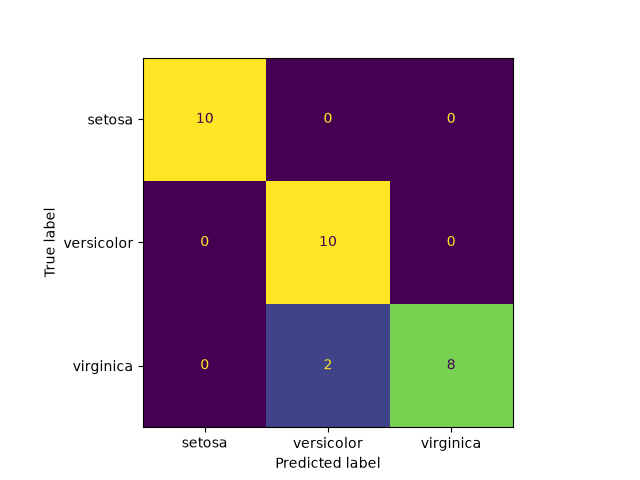
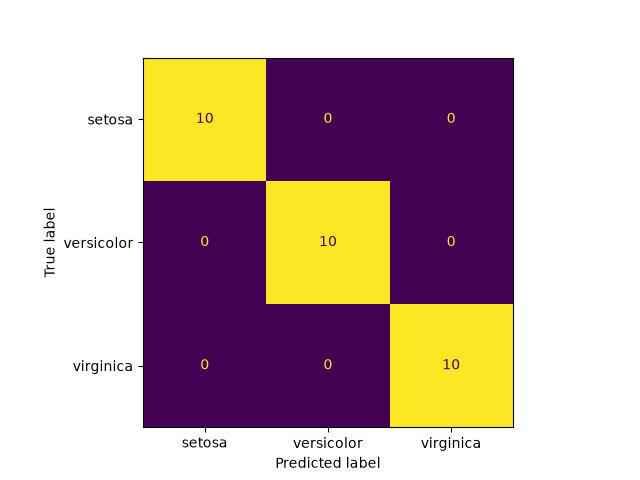
fix assignments_03

Changed region(s): [[0.4062, 0.625, 0.8125, 0.9062]]

diff --git a/assignments_03/project_03.py b/assignments_03/project_03.py
@@ -18,12 +18,9 @@ from sklearn.model_selection import train_test_split, cross_val_score
 from sklearn.metrics import (
     confusion_matrix,
     accuracy_score,
-    precision_score,
-    recall_score,
-    f1_score,
     classification_report
 )
-from sklearn.inspection import DecisionBoundaryDisplay
+
 
 warnings.filterwarnings("ignore", category=RuntimeWarning)
 
@@ -100,10 +97,10 @@ print(df.shape)
 print(df.head())
 # Check how many spam/ham values 
 print(df["spam_label"].value_counts())
-# The dataset is fairly balanced.
-# Ham emails: 2788 (about 61%)
-# Spam emails: 1813 (about 39%)
-# Accuracy will be usel metric.
+
+# The dataset has more ham emails than spam emails.
+# Accuracy is useful, but precision and recall are also important because
+# false positives can mark real emails as spam.
 
 # Boxplot for key features
 features = ["word_freq_free", "char_freq_!", "capital_run_length_total"]
@@ -120,17 +117,13 @@ for feature in features:
 # Observations from feature distributions:
 #
 # word_freq_free:
-# Spam emails usually contain more occurrences of the word "free" because
-# many spam messages use promotional language and offers.
+# Spam emails often contain the word "free".
 #
 # char_freq_!:
-# Spam emails tend to have higher exclamation mark frequency because
-# advertisements and spam messages often use urgent or attention-grabbing text.
+# Spam emails often use more exclamation marks.
 #
 # capital_run_length_total:
-# Spam emails often contain longer sequences of capital letters because
-# they may use uppercase words to emphasize deals, warnings, or promotions.
-
+# Spam emails often contain longer capital letter sequences.
 
 
 # Task 2: Prepare Your Data
@@ -191,8 +184,8 @@ pred = knn_scaled.predict(X_test_scaled)
 print("KNN Scaled Accuracy:", accuracy_score(y_test, pred))
 print(classification_report(y_test, pred))
 
-# Unscaled accuracy is about 0.89 and scaled accuracy is about 0.90, 
-# that means KNN preformed better with scaled data
+# Scaled KNN performed slightly better.
+# Scaling helps KNN because it uses distance between data points.
 
 # KNN PCA
 knn_pca = KNeighborsClassifier(n_neighbors=5)
@@ -218,6 +211,9 @@ tree_pred = tree_final.predict(X_test)
 print("Tree Accuracy:", accuracy_score(y_test, tree_pred))
 print(classification_report(y_test, tree_pred))
 
+# I chose max_depth=10 because it balances training and test accuracy.
+# Very deep trees can overfit, while small trees can miss patterns.
+
 # Random Forest
 rf = RandomForestClassifier(n_estimators=100, random_state=42)
 rf.fit(X_train, y_train)
@@ -234,6 +230,8 @@ tree_importance = pd.Series(
 print("Decision Tree Top Features")
 print(tree_importance.sort_values(ascending=False).head(10))
 
+# Random Forest is more reliable because it combines many trees
+# and reduces overfitting.
 
 rf_importance = pd.Series(
     rf.feature_importances_,
@@ -276,26 +274,16 @@ print(classification_report(y_test, log_pred_pca))
 
 # Model comparison:
 #
-# Random Forest performed the best based on accuracy because tree-based
-# models can learn complex patterns without requiring feature scaling.
+# Random Forest performed best because it can learn complex patterns.
 #
-# KNN comparison:
-# The scaled KNN model performed better than the unscaled version because
-# KNN uses distance calculations, and scaling prevents larger-range features
-# from dominating the distance.
+# KNN performed better after scaling because it uses distance calculations.
 #
-# The PCA version of KNN reduced the number of features while keeping most
-# important information. However, the improvement was small compared with
-# the scaled version.
+# PCA reduced the number of features but did not improve model performance.
 #
-# Logistic Regression comparison:
-# The scaled Logistic Regression model performed better than the PCA version.
-# This shows that removing features with PCA did not improve performance
-# for Logistic Regression on this dataset.
+# Logistic Regression worked better with scaled data than PCA data.
 #
-# For spam detection, accuracy alone is not enough. False positives are
-# important because legitimate emails could incorrectly be marked as spam.
-# Therefore, precision and recall should also be considered.
+# Precision and recall are important because false positives can mark
+# important emails as spam.
 
 # Confusion matrix for best model
 disp = ConfusionMatrixDisplay.from_predictions(y_test, rf_pred)
@@ -303,14 +291,23 @@ plt.title("Best Model Confusion Matrix")
 plt.savefig("assignments_03/outputs/best_model_confusion_matrix.png")
 plt.close()
 
-# The confusion matrix shows the number of false positives and false negatives.
-#
-# False positives are legitimate emails incorrectly classified as spam.
-# False negatives are spam emails incorrectly classified as ham.
-#
-# For spam filtering, false positives are usually the more concerning error
-# because an important email could be incorrectly moved to the spam folder.
-# False negatives are less harmful because the user can delete an unwanted email.
+# Check false positives and false negatives
+cm = confusion_matrix(y_test, rf_pred)
+
+false_positives = cm[0, 1]  # Real emails marked as spam
+false_negatives = cm[1, 0]  # Spam emails missed
+
+print("False Positives:", false_positives)
+print("False Negatives:", false_negatives)
+
+if false_positives > false_negatives:
+    print("More false positives than false negatives.")
+else:
+    print("More false negatives than false positives.")
+
+# False positives are important because real emails may be marked as spam.
+# False negatives mean spam emails are missed.
+# For spam detection, false positives are usually more concerning.
 
 # Task 4: Cross-Validation
 # KNN Unscaled
@@ -339,7 +336,7 @@ print("std:", tree_cv.std())
 
 # Random Forest
 rf_cv = cross_val_score(rf, X_train, y_train, cv=5)
-print("Random Forset")
+print("Random Forest")
 print("Mean:", rf_cv.mean())
 print("std:", rf_cv.std())
 
@@ -355,16 +352,11 @@ print("Logistic Regression PCA")
 print("Mean:", log_reg_pca_cv.mean())
 print("std:", log_reg_pca_cv.std())
 
-# Cross-validation summary:
+# Random Forest had the best average accuracy across folds.
+# This means it performed consistently well.
 #
-# Random Forest had the highest average accuracy across folds,
-# showing the strongest overall performance.
-#
-# Logistic Regression PCA had the lowest standard deviation,
-# meaning it produced the most consistent results across different folds.
-#
-# The cross-validation results are similar to the single train/test split,
-# which increases confidence that the model comparison is reliable.
+# Similar cross-validation and test results increase confidence
+# that the model is reliable.
 
 # Task 5: Building a Prediction Pipeline
 
@@ -373,9 +365,9 @@ rf_pipeline = Pipeline([
     ("classifier", RandomForestClassifier(n_estimators=100, random_state=42))
     ])
 rf_pipeline.fit(X_train, y_train)
-rf_pred =rf_pipeline.predict(X_test)
+rf_pipeline_pred =rf_pipeline.predict(X_test)
 print("Random Forest Pipeline")
-print(classification_report(y_test, rf_pred))
+print(classification_report(y_test, rf_pipeline_pred))
 
 # Logistic Regression Pipline
 log_pipeline = Pipeline([
@@ -387,21 +379,15 @@ log_pipeline = Pipeline([
         ))
     ])
 log_pipeline.fit(X_train, y_train)
-log_pred = log_pipeline.predict(X_test)
+log_pipline_pred = log_pipeline.predict(X_test)
 print("Logistic Regression Pipeline")
-print(classification_report(y_test, log_pred))
+print(classification_report(y_test, log_pipline_pred))
 
-# Pipeline comparison:
+# Random Forest does not need scaling, so the pipeline only contains the model.
 #
-# The Random Forest pipeline produces the same results as the manual Random
-# Forest model because the pipeline only contains the classifier and does not
-# apply any preprocessing. Tree-based models do not require feature scaling.
+# Logistic Regression uses StandardScaler because it works better
+# when features have similar scales.
 #
-# The Logistic Regression pipeline includes StandardScaler because logistic
-# regression performs better when features are on similar scales.
-#
-# The pipeline approach creates a reusable workflow by combining preprocessing
-# and modeling steps together and helps prevent data leakage.
-
+# Pipelines combine steps together and help prevent data leakage.
 
 

diff --git a/assignments_03/warmup_03.py b/assignments_03/warmup_03.py
@@ -8,7 +8,6 @@ from sklearn.decomposition import PCA
 from sklearn.neighbors import KNeighborsClassifier
 from sklearn.tree import DecisionTreeClassifier
 from sklearn.linear_model import LogisticRegression
-from sklearn.multiclass import OneVsRestClassifier
 from sklearn.metrics import (
     accuracy_score,
     classification_report,
@@ -49,10 +48,10 @@ knn = KNeighborsClassifier(n_neighbors=5)
 # Fit using unscaled training data
 knn.fit(X_train, y_train)
 # Predict on the test data
-pred = knn.predict(X_test)
+knn_unscaled_pred = knn.predict(X_test)
 # Print accuracy and classification report
-print("Accuracy:", accuracy_score(y_test, pred))
-print(classification_report(y_test, pred))
+print("Accuracy:", accuracy_score(y_test, knn_unscaled_pred))
+print(classification_report(y_test, knn_unscaled_pred))
 
 # KNN Question 2
 # Build KNN model with 5 neighbors
@@ -90,18 +89,19 @@ for k in k_values:
     knn = KNeighborsClassifier(n_neighbors=k)
     cv_scores = cross_val_score(knn, X_train, y_train, cv=5)
     print(f"K={k}, Mean CV Score: {cv_scores.mean():.3f}")
-# I would choose k=5 or k=7 since they have the highest mean CV score,
-# which means they performed best during cross-validation.
+# I would choose k=5 because it had a high CV score and gives a good balance.
+# Smaller k values may overfit, and larger k values may underfit.
 
 # --- Classifier Evaluation ---
 # Classifier Evaluation Question 1
 # Create confusion matrix
-cm = confusion_matrix(y_test, pred)
+cm = confusion_matrix(y_test, knn_unscaled_pred)
 # Display confusion matrix
 disp = ConfusionMatrixDisplay(confusion_matrix=cm, display_labels=iris.target_names)
 disp.plot(colorbar=False)
 # Save the figure
 plt.savefig("assignments_03/outputs/knn_confusion_matrix.png")
+plt.close()
 # The model most often confuses versicolor and virginica because they have similar features,
 # making them harder to separate.
 
@@ -116,21 +116,18 @@ tree_pred = tree.predict(X_test)
 # Print accuracy and classification report
 print("Accuracy:", accuracy_score(y_test, tree_pred))
 print(classification_report(y_test, tree_pred))
-# Compare Decision Tree accuracy with KNN accuracy.
-# Decision Trees do not rely on distance calculations, so scaling usually does not affect performance.
-
+# Decision Trees and KNN can have similar accuracy.
+# Decision Trees do not use distance calculations, 
+# so scaling does not usually affect performance.
 
 # --- Logistic Regression and Regularization ---
 # Logistic Regression Question 1
 c_values = [0.01, 1.0, 100]
 
 for c in c_values:
-    model = OneVsRestClassifier( LogisticRegression(C=c, max_iter=1000, solver='liblinear'))
+    model = LogisticRegression(C=c, max_iter=1000, solver='liblinear')
     model.fit(X_train_scaled, y_train)
-    coef_sum = sum(
-        np.abs(estimator.coef_).sum()
-        for estimator in model.estimators_
-    )
+    coef_sum = np.abs(model.coef_).sum()
     print(f"C={c}, Total Coefficient Magnitude={coef_sum:.3f}")
 # As C increases, the total coefficient magnitude increases.
 # This shows that larger C means weaker regularization, allowing larger coefficients.
@@ -153,7 +150,7 @@ for digit in range(10):
    ax[digit].axis('off')
 plt.tight_layout()   
 plt.savefig("assignments_03/outputs/sample_digits.png")
-
+plt.close()
 # PCA Question 2
 pca = PCA()
 pca.fit(X_digits)
@@ -164,14 +161,15 @@ plt.title("PCA")
 plt.xlabel("Principal Component 1")
 plt.ylabel("Principal Component 2")
 plt.savefig("assignments_03/outputs/pca_2d_projection.png")
+plt.close()
 # Same-digit images mostly cluster together in this 2D space, 
 # although some digits overlap because reducing 64 features to 2 loses some information.
 
 # PCA Question 3
 cumulative_variance = np.cumsum(pca.explained_variance_ratio_)
+plt.plot(cumulative_variance)
 plt.axhline(y=0.80, color="red", linestyle="--", label="80%")
 plt.legend()
-plt.plot(cumulative_variance)
 plt.title("Cumulative Explained Variance")
 plt.xlabel("Number of Components")
 plt.ylabel("Cumulative Explained Variance")
@@ -181,8 +179,10 @@ components_80 = np.argmax(cumulative_variance >= 0.80) + 1
 print("Components needed for 80% variance:", components_80)
 
 plt.savefig("assignments_03/outputs/pca_variance_explained.png")
+plt.close()
 
-# About 13 principal components are needed to explain 80% of the variance.
+# Approximately 13 components are needed to explain 80% of the variance.
+# PCA reduces the number of features while keeping most of the important information.
 
 # PCA Question 4
 def reconstruct_digit(sample_idx, scores, pca, n_components):
